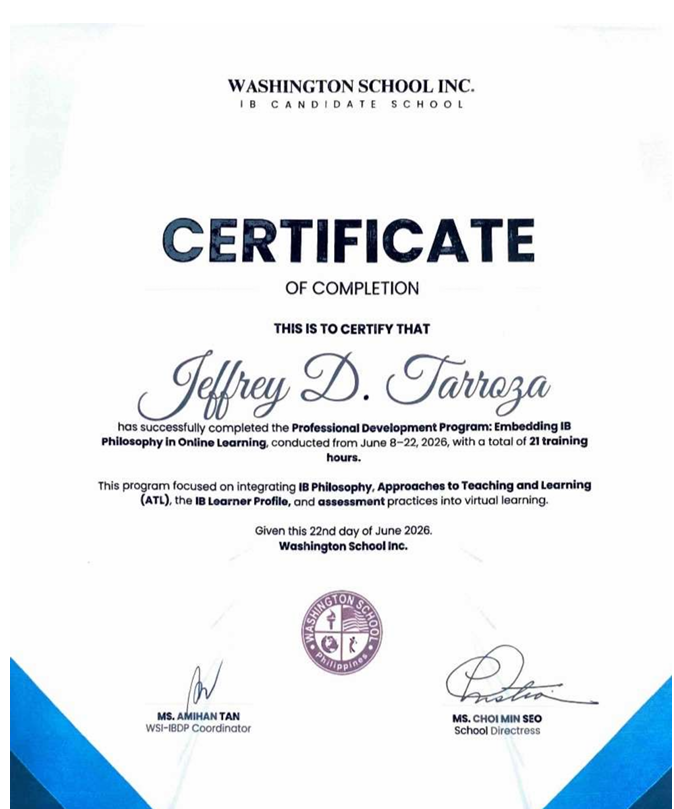
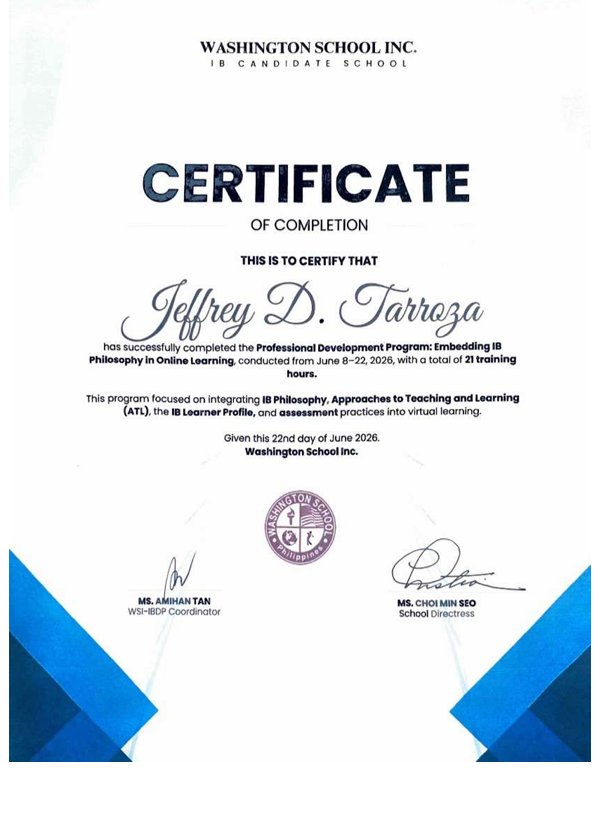
Add high resolution certificates for ESL Training Program, TEFL Distinction, and IB Online Learning

diff --git a/data.js b/data.js
@@ -99,11 +99,19 @@ const portfolioData = {
         },
         {
             title: "Embedding IB Philosophy in Online Learning",
-            issuer: "Washington School Inc.",
+            issuer: "Washington School Inc. (IB Candidate School)",
             date: "June 22, 2026",
             badge: "21 Training Hours",
             image: "./assets/certificates/cert_wsi_ib_online.png",
-            description: "Focusing on integrating IB Philosophy, ATL, IB Learner Profile, and assessment practices into virtual learning."
+            description: "Professional development on integrating IB Philosophy, ATL, IB Learner Profile, and assessment into virtual learning."
+        },
+        {
+            title: "120-Hour TEFL Course (Distinction)",
+            issuer: "TEFL Professional Institute - Teacher Record",
+            date: "Nov 2024",
+            badge: "Cert # TR6388526051",
+            image: "./assets/certificates/cert_tefl_teacher_record.png",
+            description: "Completed with Distinction in Teaching English as a Foreign Language, verified by Teacher Record."
         },
         {
             title: "120-Hour TESOL/TEFL Certificate",
@@ -112,6 +120,14 @@ const portfolioData = {
             badge: "Cert # WTA222101957",
             image: "./assets/certificates/cert_tesol.jpg",
             description: "Accredited by ACCREDITAT & The CPD Certification Service for teaching English to non-native speakers."
+        },
+        {
+            title: "ESL Training Program Certificate",
+            issuer: "Washington School Inc. & DepEd Cavite",
+            date: "July 19, 2023",
+            badge: "ESL Head Teacher Verified",
+            image: "./assets/certificates/cert_wsi_esl_training.png",
+            description: "Completed intensive ESL training program, participating in interactive language sessions and cultural activities."
         },
         {
             title: "Teaching Internship Certificate of Completion",
@@ -127,7 +143,7 @@ const portfolioData = {
             date: "Feb 27, 2025",
             badge: "Winter Camp Leadership",
             image: "./assets/certificates/cert_wsi_winter_camp.png",
-            description: "Recognized for outstanding dedication in mentoring international campers."
+            description: "Recognized for outstanding dedication in teaching and mentoring international campers."
         }
     ],
     sampleLessonPlan: {
